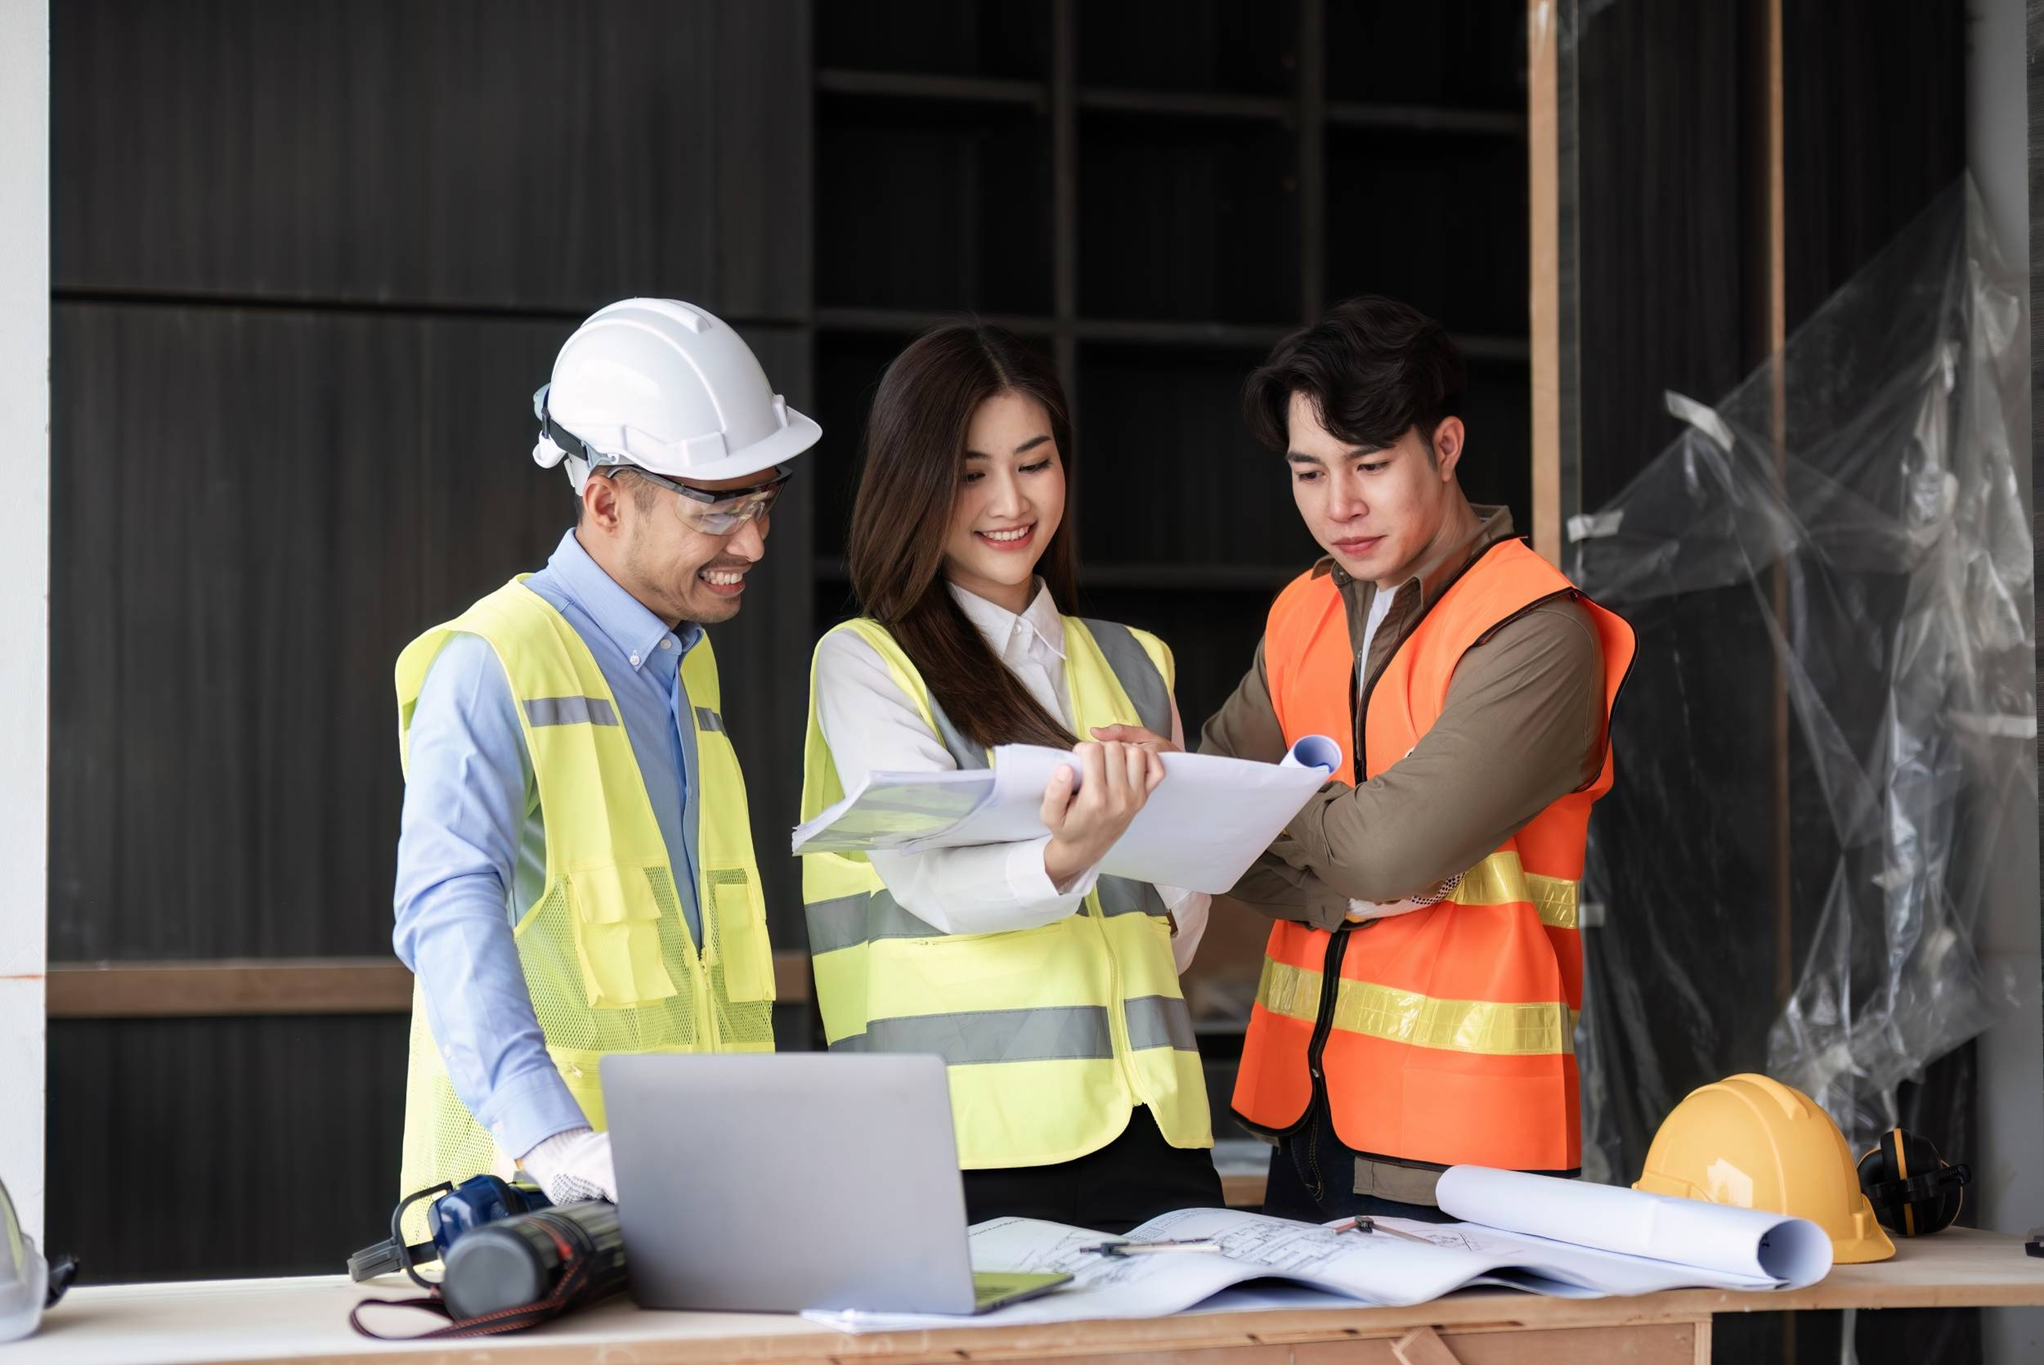
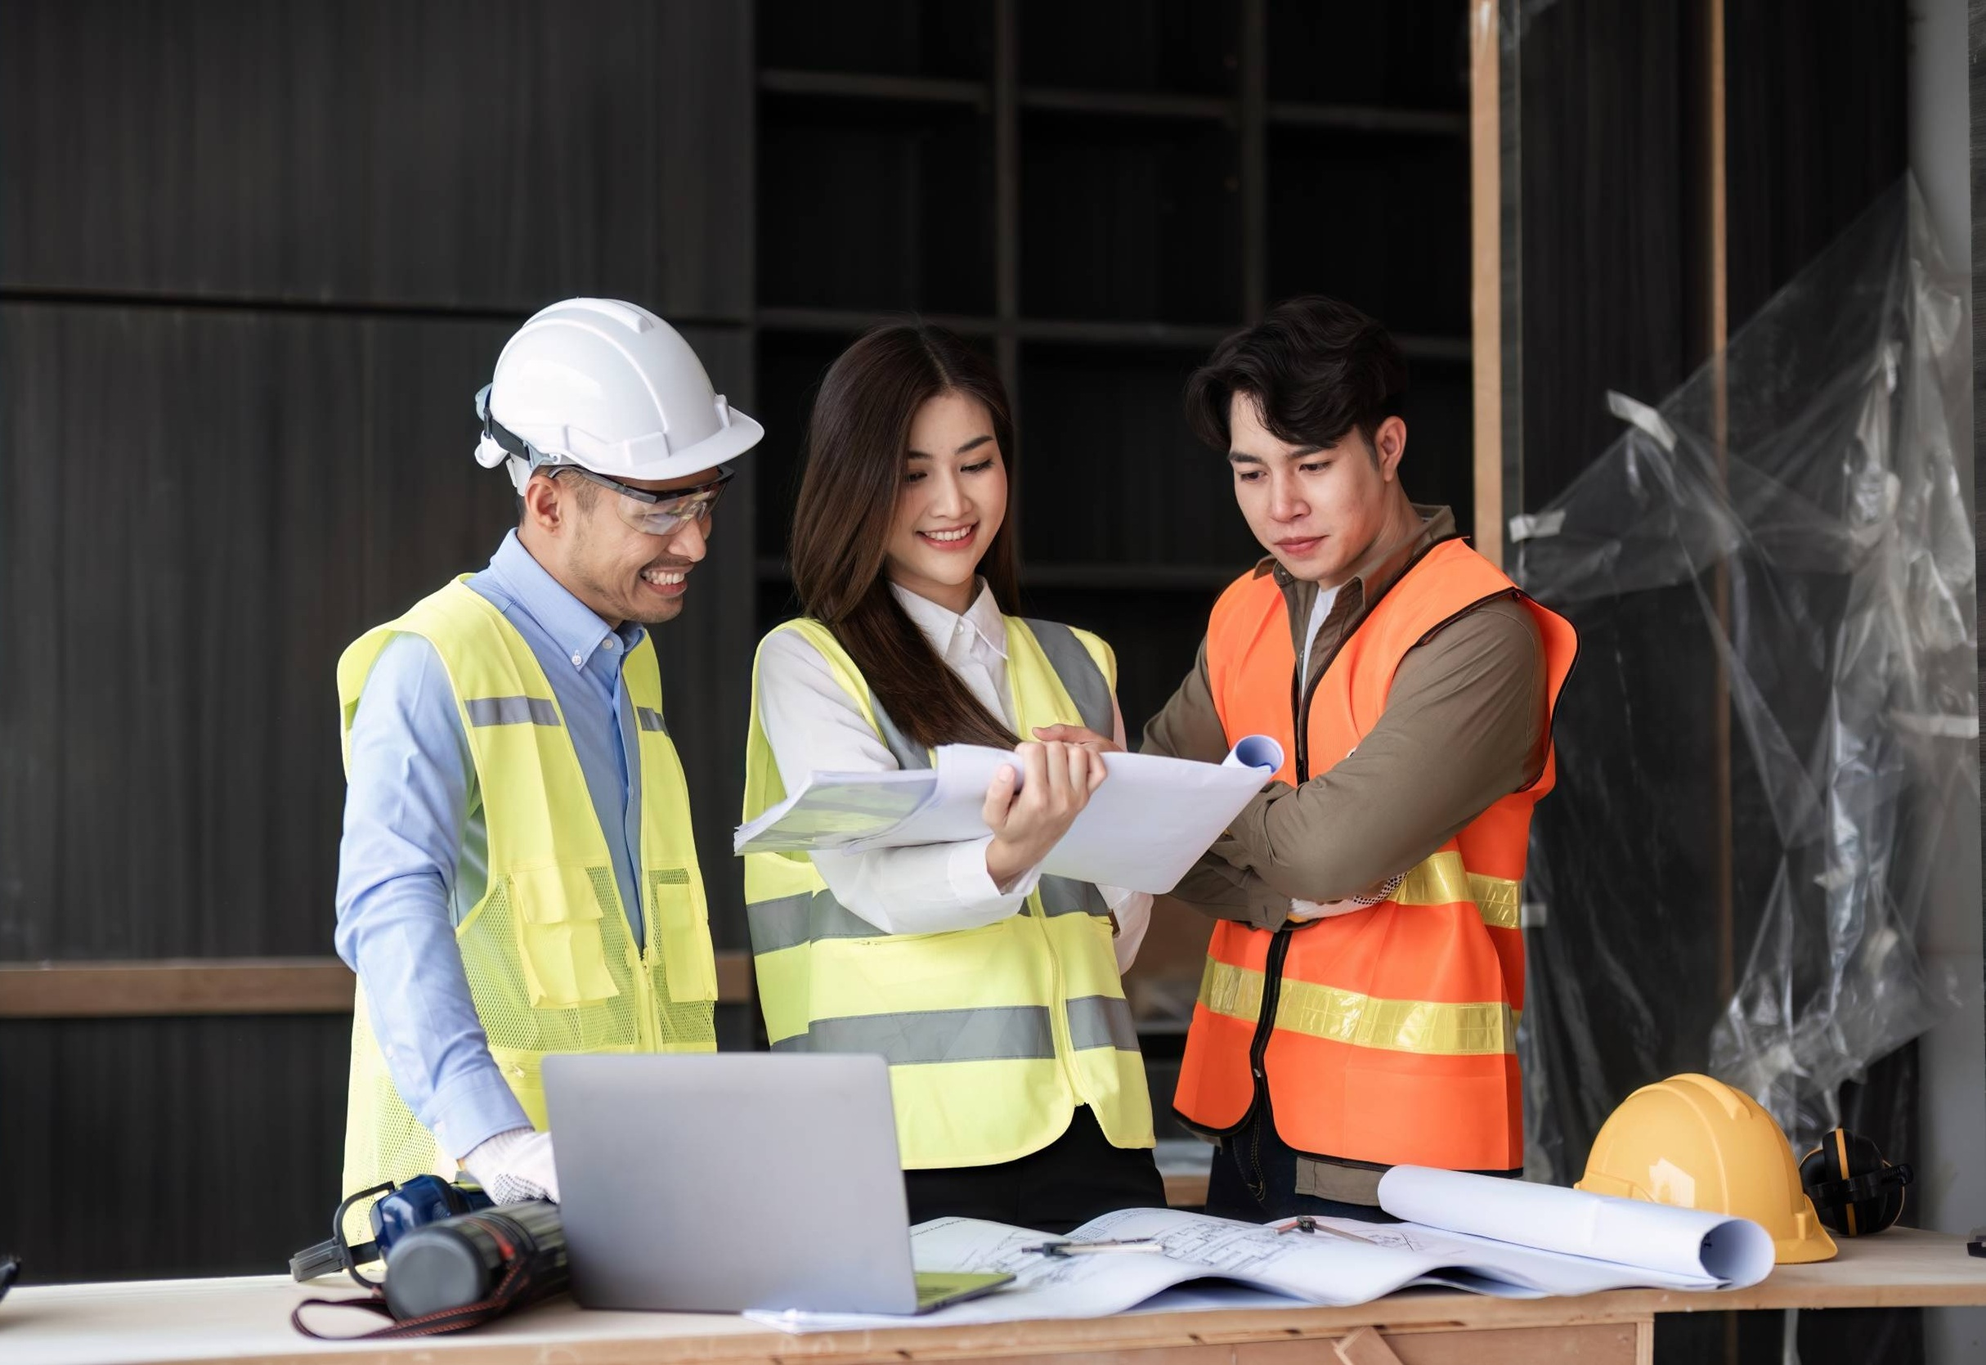
All Industries page image updated

Changed region(s): [[0.0, 0.0, 0.9572, 1.0], [0.9263, 0.2804, 0.9572, 0.3739], [0.8954, 0.9658, 0.9263, 1.0]]

diff --git a/src/app/website/pages/industries/retail/retail.component.html b/src/app/website/pages/industries/retail/retail.component.html
@@ -3,17 +3,17 @@
   subtitle="From inventory buildup to seasonal demand and multi-location expansion, retail businesses face constant cash flow pressure. You need financing that keeps shelves stocked and growth plans moving."
   buttonText=""
   buttonLink="/apply"
-  image="assets/img/pages/Industries/meeting-of-young-asian-business.jpg">
+  image="assets/img/pages/Industries/Retail/banner.jpg">
 </app-hero-section>
 <app-agriculture-sec1
   title="Financing built around how retail operates"
   subtitle="Retail businesses face daily decisions around inventory, seasonality, and cash flow, often under tight margins. We understand the pace and pressure of keeping shelves stocked while planning for growth. Our financing approach is built to support day-to-day operations, peak demand periods, and expansion, so you can respond confidently as opportunities arise."
 
-  card1Image="assets/img/pages/Industries/Agriculture/Our-Customers.png"
+  card1Image="assets/img/pages/Industries/Retail/retails-1.jpg"
   card1Title="Our Customers"
   card1Description="We work with retail businesses managing inventory turnover, seasonal demand, and tight margins. Our focus is helping owners maintain cash flow and fund growth across locations nationwide."
 
-  card2Image="assets/img/pages/Industries/Agriculture/Our-Solutions.png"
+  card2Image="assets/img/pages/Industries/Retail/retails-2.jpg"
   card2Title="Our Solutions"
   card2Description="We provide flexible financing solutions that support inventory purchasing, store expansion, and working capital needs, helping retailers respond quickly to demand without disrupting daily operations."
 >

diff --git a/src/app/website/pages/industries/pharmaceutical-medical/pharmaceutical-medical.component.html b/src/app/website/pages/industries/pharmaceutical-medical/pharmaceutical-medical.component.html
@@ -3,17 +3,17 @@
   subtitle="High-value inventory, strict compliance, and hospital demand require dependable financing. You need capital that supports scale without disruption."
   buttonText=""
   buttonLink="/apply"
-  image="assets/img/pages/Industries/meeting-of-young-asian-business.jpg">
+  image="assets/img/pages/Industries/Pharmaceutical/banner.jpg">
 </app-hero-section>
 <app-agriculture-sec1
   title="Financing built for precision, compliance, and scale."
   subtitle="Pharmaceutical wholesalers operate in a high-stakes environment where reliability, compliance, and inventory value are critical. We understand the responsibility that comes with supplying healthcare providers and hospitals. That’s why we structure financing that supports scale and consistency, helping you meet demand without compromising operational stability."
 
-  card1Image="assets/img/pages/Industries/Agriculture/Our-Customers.png"
+  card1Image="assets/img/pages/Industries/Pharmaceutical/pharmaceutical-1.jpg"
   card1Title="Our Customers"
   card1Description="We serve pharmaceutical wholesalers supplying medical equipment and goods to major hospitals and healthcare providers. Reliability and speed are at the core of what we support."
 
-  card2Image="assets/img/pages/Industries/Agriculture/Our-Solutions.png"
+  card2Image="assets/img/pages/Industries/Pharmaceutical/pharmaceutical-2.jpg"
   card2Title="Our Solutions"
   card2Description="We deliver structured financing solutions that support high-value inventory, equipment acquisition, and expansion, helping clients meet healthcare demand without compromising cash flow."
 >

diff --git a/src/app/website/pages/industries/professional-services/professional-services.component.html b/src/app/website/pages/industries/professional-services/professional-services.component.html
@@ -3,17 +3,17 @@
   subtitle="Growth, expansion, and ownership transitions require smart financial planning. You need a financing partner who understands service-based businesses and values clarity and discretion."
   buttonText=""
   buttonLink="/apply"
-  image="assets/img/pages/Industries/meeting-of-young-asian-business.jpg">
+  image="assets/img/pages/Industries/Professional/banner.jpg">
 </app-hero-section>
 <app-agriculture-sec1
   title="Financial solutions built around your practice"
   subtitle="Professional service firms grow on trust and continuity. We understand the importance of stability alongside growth, and structure financing that supports expansion while protecting the long-term health of your practice."
 
-  card1Image="assets/img/pages/Industries/Agriculture/Our-Customers.png"
+  card1Image="assets/img/pages/Industries/Professional/professional-1.jpg"
   card1Title="Our Customers"
   card1Description="We work with professional service firms like security agencies, medical clinics, law offices, IT solutions providers, and more, which are focused on stability, growth, and continuity. Our focus is helping practices manage cash flow, expansion needs, and long-term business transitions."
 
-  card2Image="assets/img/pages/Industries/Agriculture/Our-Solutions.png"
+  card2Image="assets/img/pages/Industries/Professional/professional-2.jpeg"
   card2Title="Our Solutions"
   card2Description="We provide customized financing solutions that support expansion, ownership transitions, and operational investments, allowing professionals to focus on clients while maintaining financial clarity."
 >

diff --git a/src/app/website/pages/industries/renewable-energy/renewable-energy.component.html b/src/app/website/pages/industries/renewable-energy/renewable-energy.component.html
@@ -3,17 +3,17 @@
   subtitle="Project-based timelines and technology investments require flexible capital. You need financing aligned with growth, sustainability, and execution."
   buttonText=""
   buttonLink="/apply"
-  image="assets/img/pages/Industries/meeting-of-young-asian-business.jpg">
+  image="assets/img/pages/Industries/Energy/banner.jpg">
 </app-hero-section>
 <app-agriculture-sec1
   title="Customized financing that supports progress"
   subtitle="Renewable energy businesses manage project-based revenues, upfront capital needs, and long execution timelines. We understand the complexity of bringing these projects to life. Our approach to financing is designed to support delivery today while remaining flexible enough to adapt as projects evolve and new opportunities emerge."
 
-  card1Image="assets/img/pages/Industries/Agriculture/Our-Customers.png"
+  card1Image="assets/img/pages/Industries/Energy/energy-1.jpg"
   card1Title="Our Customers"
   card1Description="We work with renewable energy providers managing project-based timelines and technology investments. Our focus is helping businesses finance growth while supporting long-term sustainability goals."
 
-  card2Image="assets/img/pages/Industries/Agriculture/Our-Solutions.png"
+  card2Image="assets/img/pages/Industries/Energy/energy-2.jpg"
   card2Title="Our Solutions"
   card2Description="We provide flexible financing solutions designed to support project execution, equipment investment, and expansion, helping renewable businesses scale efficiently and deliver measurable impact."
 >

diff --git a/src/app/website/pages/industries/infrastructure-industrial/infrastructure-industrial.component.html b/src/app/website/pages/industries/infrastructure-industrial/infrastructure-industrial.component.html
@@ -3,17 +3,17 @@
   subtitle="Capital-intensive inventory, long sales cycles, and large-ticket transactions define your business. You need financing that keeps equipment moving and opportunities within reach."
   buttonText=""
   buttonLink="/apply"
-  image="assets/img/pages/Industries/meeting-of-young-asian-business.jpg">
+  image="assets/img/pages/Industries/Infrastructure/banner.jpg">
 </app-hero-section>
 <app-agriculture-sec1
   title="Financing built for scale, speed, and complexity."
   subtitle="Industrial businesses often carry heavy inventory and long sales cycles that strain liquidity. We understand this pressure and structure financing that keeps capital available, supports scale, and allows you to act when opportunities arise."
 
-  card1Image="assets/img/pages/Industries/Agriculture/Our-Customers.png"
+  card1Image="assets/img/pages/Industries/Infrastructure/infrastructure-1.jpg"
   card1Title="Our Customers"
   card1Description="We work with heavy equipment resellers and industrial suppliers managing high-value inventory and long sales cycles. Our focus is helping businesses stay liquid and ready for large transactions."
 
-  card2Image="assets/img/pages/Industries/Agriculture/Our-Solutions.png"
+  card2Image="assets/img/pages/Industries/Infrastructure/infrastructure-2.jpg"
   card2Title="Our Solutions"
   card2Description="We structure customized financing solutions that support inventory turnover, fleet expansion, and large-ticket transactions, enabling clients to respond quickly to demand without tying up capital."
 >

diff --git a/src/app/website/pages/industries/manufacturing-production/manufacturing-production.component.html b/src/app/website/pages/industries/manufacturing-production/manufacturing-production.component.html
@@ -3,17 +3,17 @@
   subtitle="Rising costs, production demands, and expansion plans require dependable capital. You need financing that supports output without disrupting operations."
   buttonText=""
   buttonLink="/apply"
-  image="assets/img/pages/Industries/meeting-of-young-asian-business.jpg">
+  image="assets/img/pages/Industries/Manufacturing/banner.jpg">
 </app-hero-section>
 <app-agriculture-sec1
   title="Structured financing designed around how you produce"
   subtitle="Manufacturers balance production demands, cost control, and reinvestment. We take time to understand how your operations run, then tailor financing that supports efficiency, output, and growth without disrupting daily operations."
 
-  card1Image="assets/img/pages/Industries/Agriculture/Our-Customers.png"
+  card1Image="assets/img/pages/Industries/Manufacturing/manufacturing-1.jpg"
   card1Title="Our Customers"
   card1Description="We work with manufacturers focused on efficiency, scale, and production consistency. Our focus is helping businesses manage working capital, equipment investment, and operational demands as they grow."
 
-  card2Image="assets/img/pages/Industries/Agriculture/Our-Solutions.png"
+  card2Image="assets/img/pages/Industries/Manufacturing/manufacturing-2.jpg"
   card2Title="Our Solutions"
   card2Description="We deliver tailored financing solutions designed to support production flow, equipment upgrades, and expansion plans, helping manufacturers maintain momentum without disrupting day-to-day operations."
 >

diff --git a/src/app/website/pages/industries/construction-building/construction-building.component.html b/src/app/website/pages/industries/construction-building/construction-building.component.html
@@ -3,18 +3,18 @@
   subtitle="Project timelines, payment delays, and material costs put pressure on cash flow. You need financing that keeps work moving without slowing you down."
   buttonText=""
   buttonLink="/apply"
-  image="assets/img/pages/Industries/meeting-of-young-asian-business.jpg">
+  image="assets/img/pages/Industries/Construction/banner.jpg">
 </app-hero-section>
 <app-agriculture-sec1
   title="Financing that moves with your projects"
   subtitle="Construction companies manage tight timelines, delayed payments, and rising material costs.<br>
   We understand these realities and tailor financing that aligns with project milestones, so work continues smoothly from start to finish."
 
-  card1Image="assets/img/pages/Industries/Agriculture/Our-Customers.png"
+  card1Image="assets/img/pages/Industries/Construction/construction-2.jpg"
   card1Title="Our Customers"
   card1Description="We work with construction firms, contractors, and building material suppliers managing multiple projects and tight margins. Our focus is helping projects stay funded from start to finish."
 
-  card2Image="assets/img/pages/Industries/Agriculture/Our-Solutions.png"
+  card2Image="assets/img/pages/Industries/Construction/construction-1.jpg"
   card2Title="Our Solutions"
   card2Description="We provide fast, flexible financing solutions aligned with project cycles and growth plans, designed to solve cash flow gaps and support execution without delays across active projects."
 >

diff --git a/src/app/website/pages/industries/distribution-wholesale-solutions/distribution-wholesale-solutions.component.html b/src/app/website/pages/industries/distribution-wholesale-solutions/distribution-wholesale-solutions.component.html
@@ -3,17 +3,17 @@
   subtitle="Inventory cycles, supplier terms, and logistics costs demand steady cash flow. You need financing that moves as fast as your goods."
   buttonText=""
   buttonLink="/apply"
-  image="assets/img/pages/Industries/meeting-of-young-asian-business.jpg">
+  image="assets/img/pages/Industries/Distribution/banner.jpg">
 </app-hero-section>
 <app-agriculture-sec1
   title="Financing designed for volume, velocity, and margins."
   subtitle="Distribution businesses operate on speed, volume, and thin margins. We understand the pressure of managing inventory and cash flow, and structure financing that keeps goods moving while protecting liquidity."
 
-  card1Image="assets/img/pages/Industries/Agriculture/Our-Customers.png"
+  card1Image="assets/img/pages/Industries/Distribution/distribution-1.jpg"
   card1Title="Our Customers"
   card1Description="We work with distributors and wholesale businesses managing inventory cycles, supplier terms, and logistics demands. Our focus is helping clients maintain liquidity as volumes scale."
 
-  card2Image="assets/img/pages/Industries/Agriculture/Our-Solutions.png"
+  card2Image="assets/img/pages/Industries/Distribution/distribution-2.jpg"
   card2Title="Our Solutions"
   card2Description="We structure financing solutions that support inventory purchases, trade cycles, and expansion needs, helping businesses move goods efficiently while managing cash flow pressures."
 >

diff --git a/src/app/shared/components/in-the-spotlight/in-the-spotlight.component.ts b/src/app/shared/components/in-the-spotlight/in-the-spotlight.component.ts
@@ -17,21 +17,21 @@ export class InTheSpotlightComponent {
 
   items: SpotlightItem[] = [
     {
-      image: 'assets/img/blogs/blog-img-1.png',
+      image: 'assets/img/blogs/Excelucent.jpg',
       category: 'Business Breakthrough',
       date: 'January 19, 2026',
       title: 'Excelucent Equipment Corporation Secures Growth Funding from JK Capital Finance',
       link: 'https://jkcapital.com.ph/our-blog/excelucent-equipment-corporation-secures-growth-funding-from-jk-capital-finance/'
     },
     {
-      image: 'assets/img/blogs/blog-img-2.jpg',
+      image: 'assets/img/blogs/The Challenge.JPG',
       category: 'Business Loans',
       date: 'December 19, 2025',
       title: 'The Challenge: traditional bank loans take months. JK Capital solution: SME financing in 5-7 days',
       link: 'https://jkcapital.com.ph/our-blog/the-challenge-traditional-bank-loans-take-months-jk-capital-solution-sme-financing-in-5-7-days/'
     },
     {
-      image: 'assets/img/blogs/blog-img-3.jpg',
+      image: 'assets/img/blogs/Beyond Capital.jpg',
       category: 'Business Loans',
       date: 'November 19, 2025',
       title: 'Beyond Capital: Powering SME Growth in 2025 with JK Capital Financing Solutions',

diff --git a/src/app/website/pages/industries/agriculture/agriculture.component.html b/src/app/website/pages/industries/agriculture/agriculture.component.html
@@ -9,11 +9,11 @@
   title="Practical financing built around your operations"
   subtitle="Agriculture businesses operate around seasons, weather, and fluctuating costs, often beyond your control.<br>We take time to understand your cycle and structure financing that supports both immediate needs and long-term growth."
 
-  card1Image="assets/img/pages/Industries/Agriculture/Our-Customers.png"
+  card1Image="assets/img/pages/Industries/Agriculture/agriculture (2).jpg"
   card1Title="Our Customers"
   card1Description="We work with farming and agro-forestry SMEs managing seasonal cycles, equipment needs, land productivity, and produce management."
 
-  card2Image="assets/img/pages/Industries/Agriculture/Our-Solutions.png"
+  card2Image="assets/img/pages/Industries/Agriculture/agriculture (1).jpg"
   card2Title="Our Solutions"
   card2Description="We provide flexible financing solutions aligned with planting, production, and expansion timelines designed to support modernization and growth."
   >

diff --git a/src/app/website/pages/help-center/help-center.component.html b/src/app/website/pages/help-center/help-center.component.html
@@ -44,12 +44,12 @@
 
           <div class="info-row" *ngIf="loc.generalInquiries">
             <span class="label">General Inquiries:</span>
-            <span class="value">{{ loc.generalInquiries }}</span>
+            <span class="value"><a href="mailto:{{ loc.generalInquiries }}">{{ loc.generalInquiries }}</a></span>
           </div>
 
           <div class="info-row" *ngIf="loc.loanUpdatesEscalation" style="padding-bottom: 10px;">
             <span class="label">Loan Updates:</span>
-            <span class="value">{{ loc.loanUpdatesEscalation }}</span>
+            <span class="value"><a href="mailto:{{ loc.loanUpdatesEscalation }}">{{ loc.loanUpdatesEscalation }}</a></span>
           </div>
 
         </div>

diff --git a/src/app/website/pages/help-center/help-center.component.css b/src/app/website/pages/help-center/help-center.component.css
@@ -80,6 +80,11 @@
   word-break: break-word;
 }
 
+.info-row .value a {
+  color: #0166CC;
+  text-decoration: none;
+}
+
 
 .location-body.show {
   max-height: 500px;
@@ -88,7 +93,8 @@
 /* MAP */
 .map img {
   top: 0;
-  padding-left: 100px;
+  width: 100%;
+  height: auto;
 }
 
 /* ================= MOBILE ================= */
